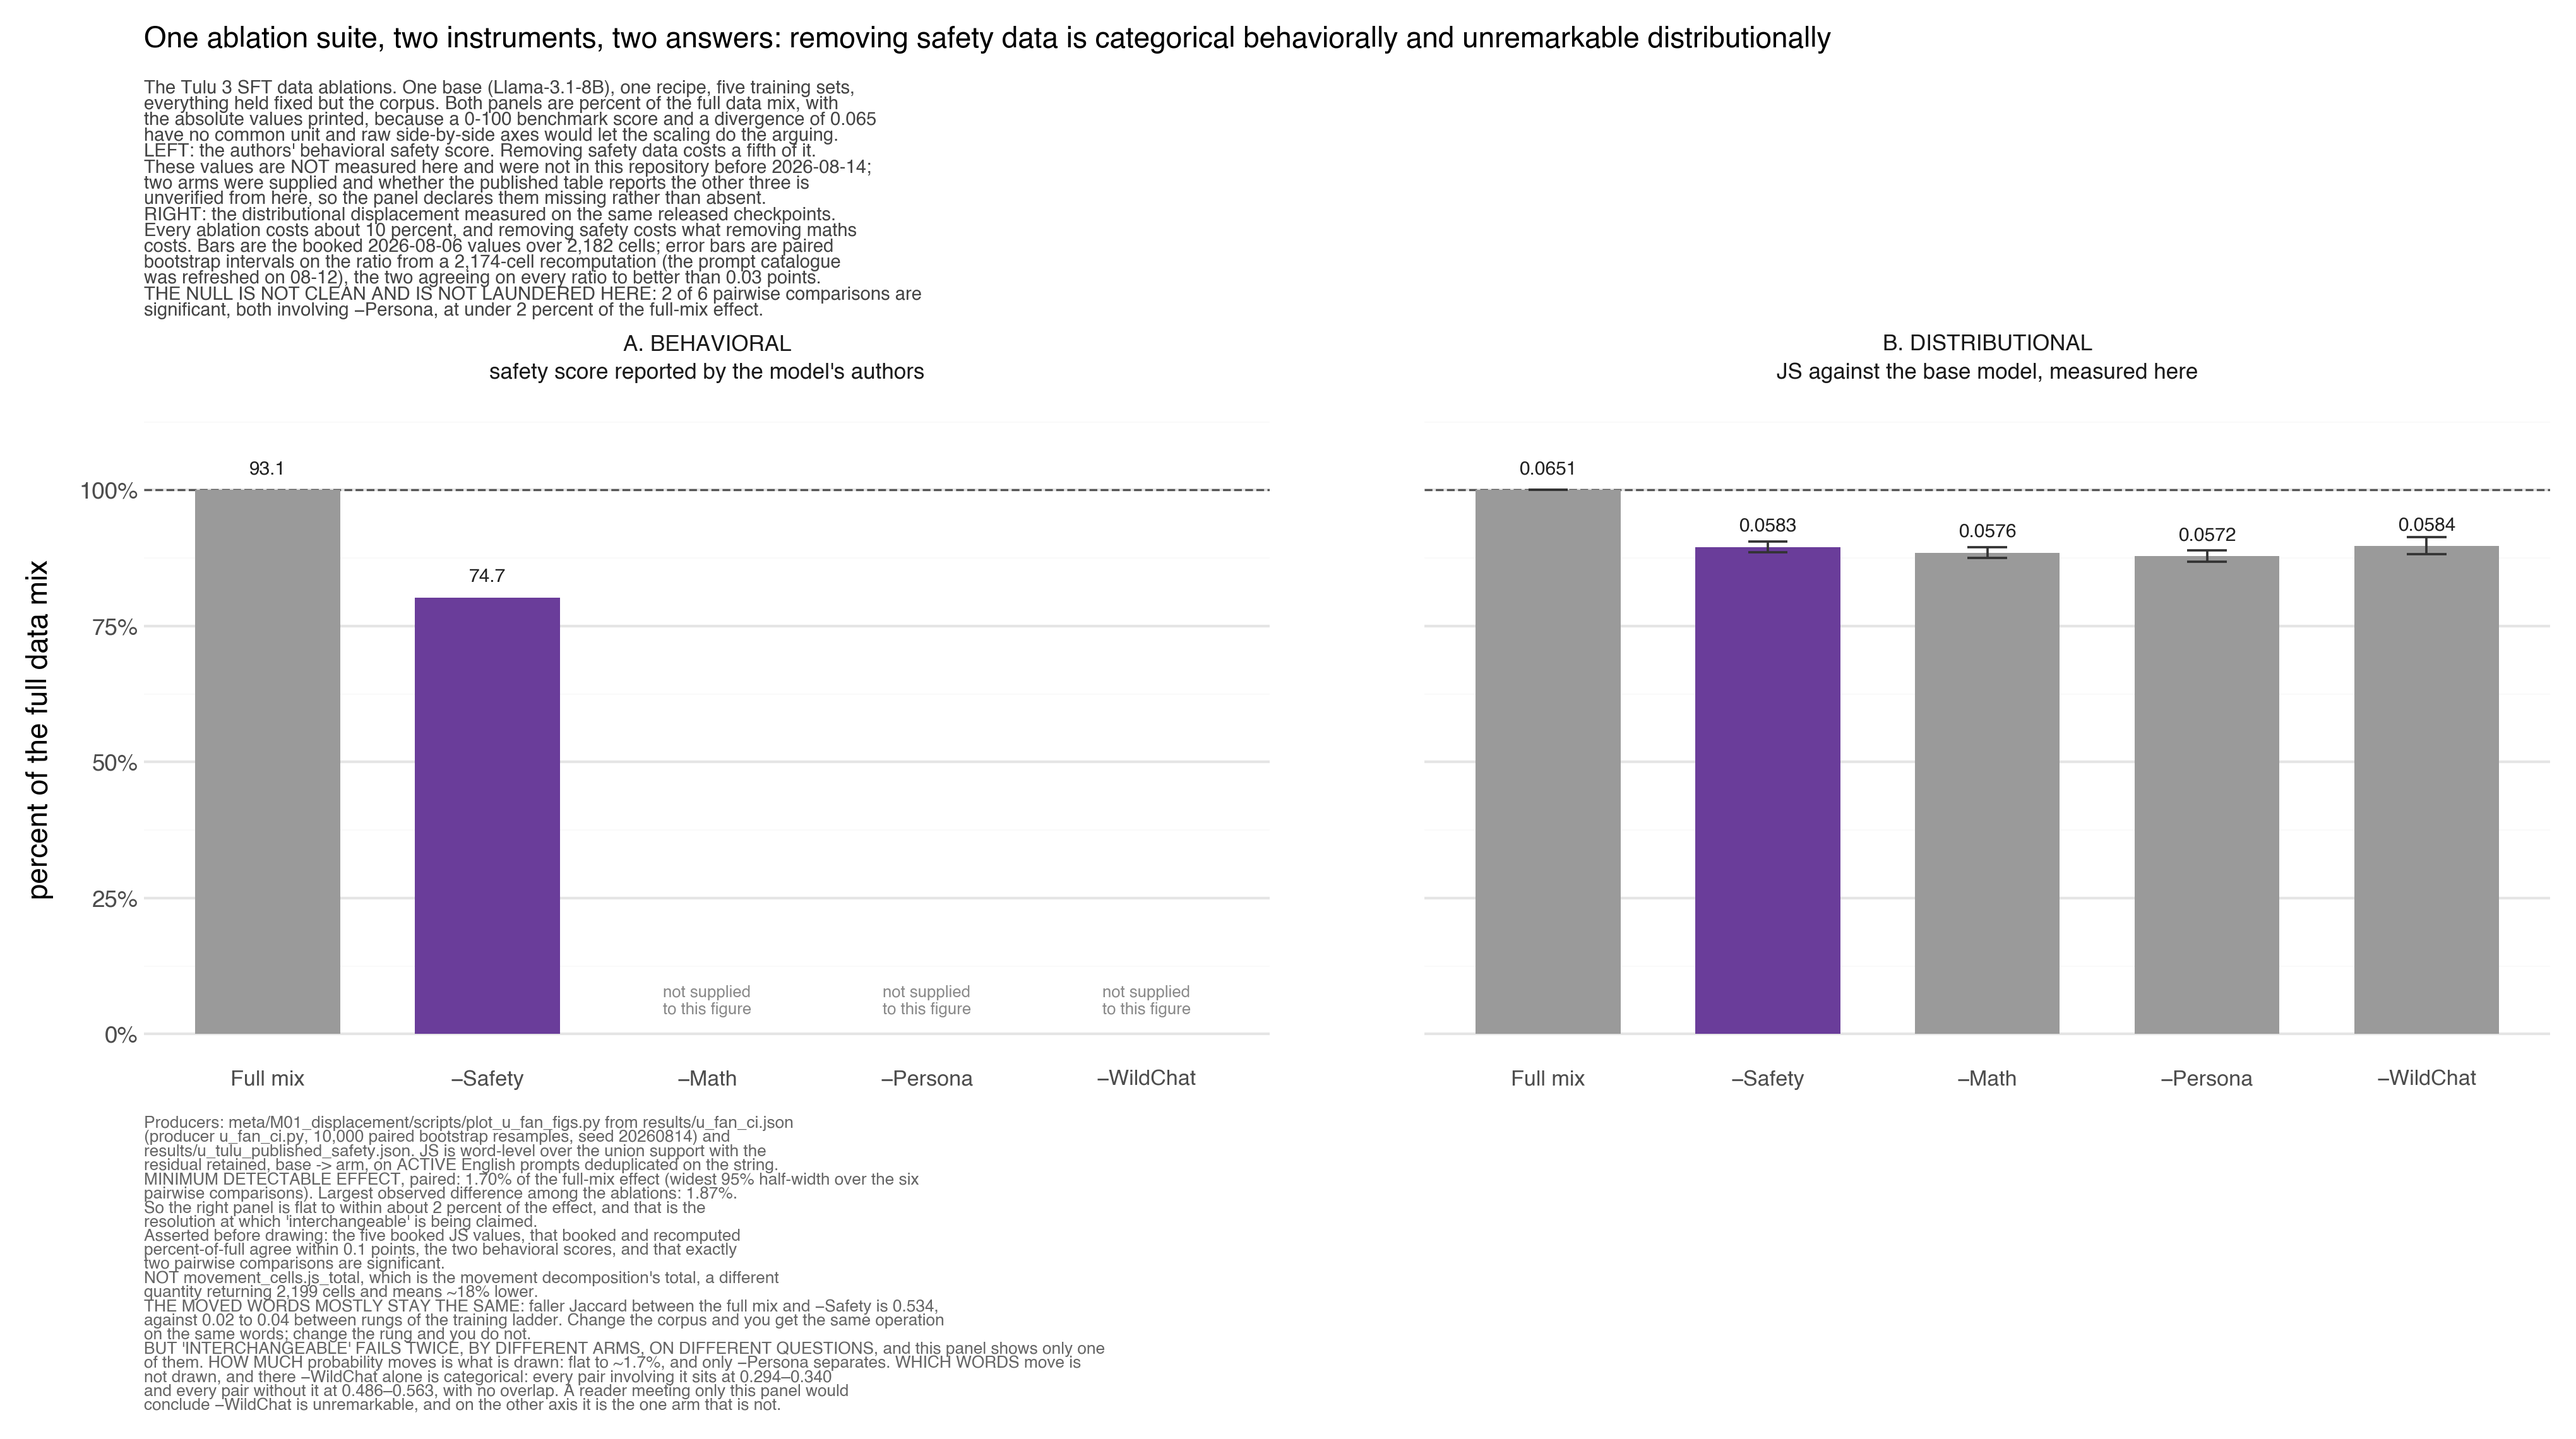
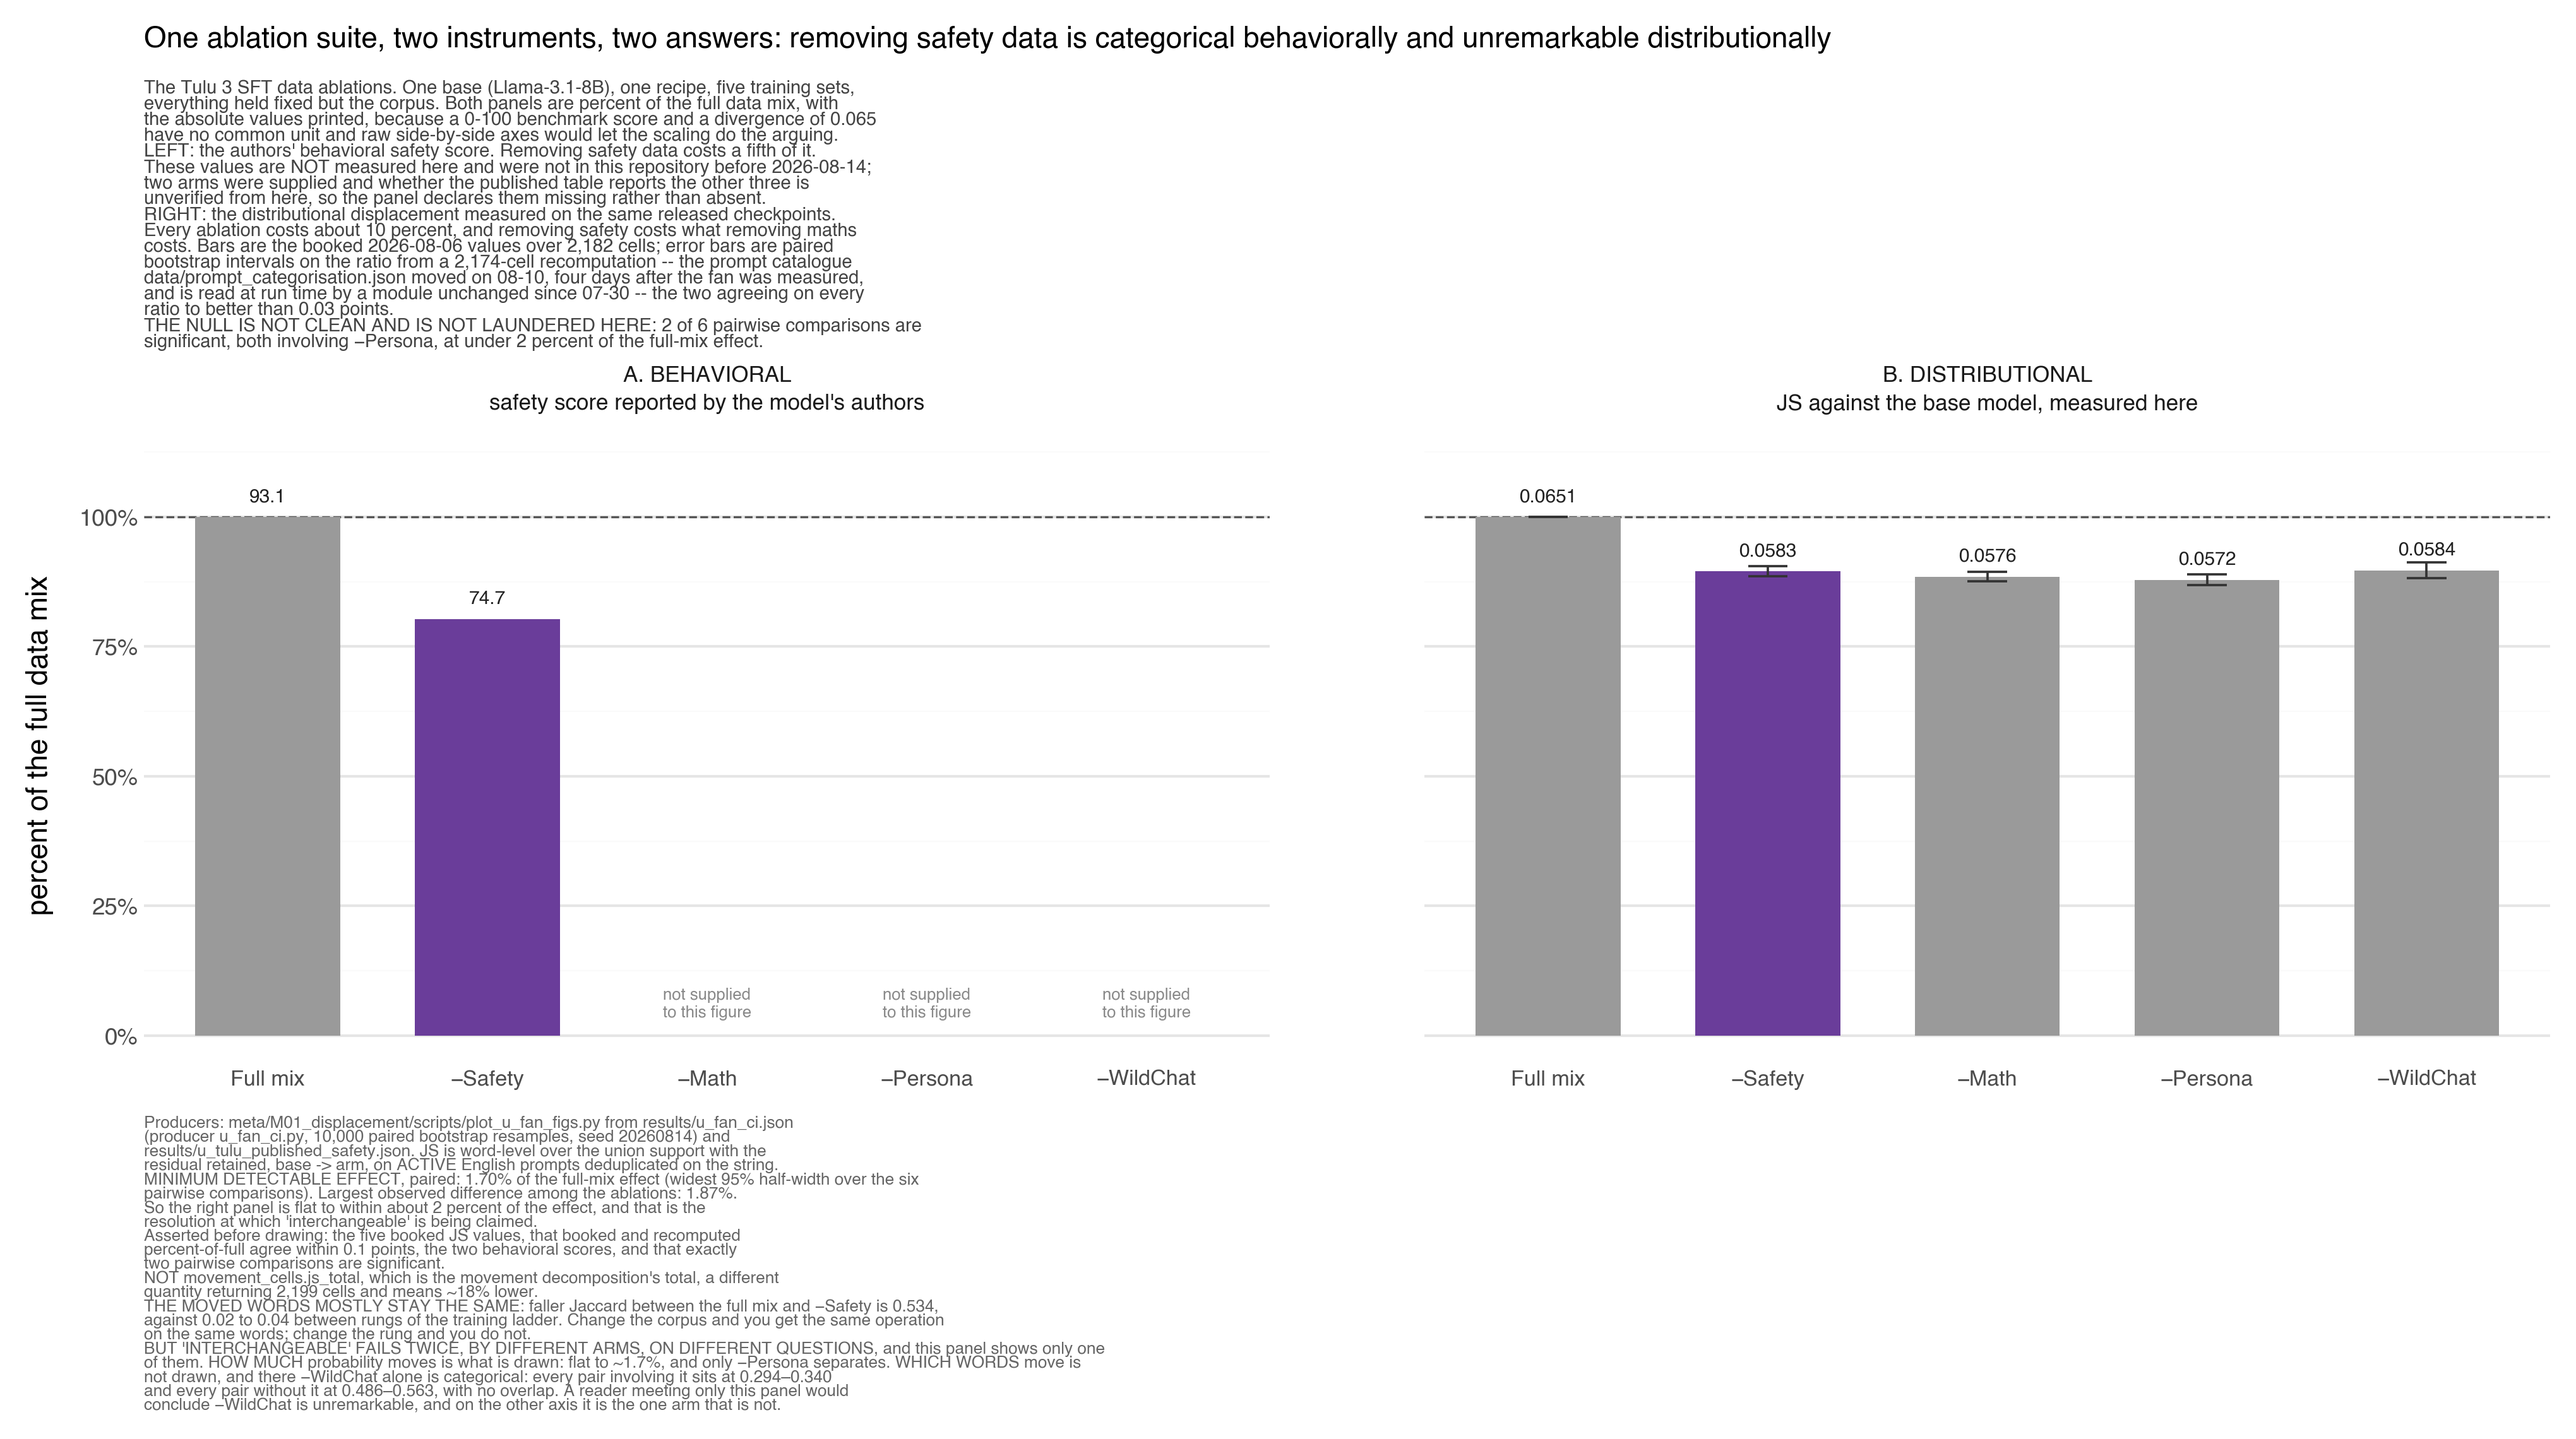
Fig 4: correct which catalogue moved under the fan, and when
I attributed the 2,182 -> 2,174 drift to the ClickHouse prompt_catalogue
refresh of 08-12. That is wrong: t_fans.py never touches ClickHouse.

The driver is data/prompt_categorisation.json, whose content moved
2026-08-10 23:56 (9b1d453c), four days after t_fans.csv was written on
08-06 17:14. t_fans.py reads malign_logits.prompts, which is UNCHANGED
since 07-30 (135b8cb5) and json.loads that file at run time
(prompts.py:62).

So the module in the import graph is clean and the data underneath it
moved. A library that reads a data file is a dependency no import-closure
check can see, and it is the mechanism under this drift -- lacan's sixth
exposure flavour, [6122], found by chasing this instance rather than by
any check.

Both the producer comment and the figure subtitle now name the right file
and the right date. Nothing about the measurement changes: the ratios were
and remain unaffected, and they are what the panel draws.

diff --git a/meta/M01_displacement/scripts/u_fan_ci.py b/meta/M01_displacement/scripts/u_fan_ci.py
@@ -92,10 +92,16 @@ def main():
     print(f"\ncells present in all five arms: {len(J)}")
 
     #: THE BOOKED ABSOLUTES NO LONGER REPRODUCE AND THAT IS RECORDED, NOT FIXED.
-    #: t_fans.csv was written 2026-08-06 on 2,182 cells. The prompt catalogue
-    #: was refreshed on 2026-08-12 (it had disagreed with its source on 118
-    #: statuses; see u_from_tables.py), and the fan now finds 2,174 cells
-    #: present in all five arms. The means move in the 4th decimal.
+    #: t_fans.csv was written 2026-08-06 17:14 on 2,182 cells, and the fan now
+    #: finds 2,174 present in all five arms, with the means moving in the 4th
+    #: decimal. THE DRIVER IS `data/prompt_categorisation.json`, whose content
+    #: moved 2026-08-10 23:56 (9b1d453c). Not the 08-12 ClickHouse catalogue
+    #: refresh, which an earlier version of this comment blamed: t_fans.py
+    #: never touches ClickHouse. It reads `malign_logits.prompts`, which is
+    #: unchanged since 07-30 and `json.load`s that file AT RUN TIME
+    #: (prompts.py:62). So the module in the import graph is clean and the
+    #: data underneath it moved -- a library that reads a data file, which no
+    #: import-closure check can see (lacan, [6122]).
     #:
     #: What the finding CLAIMS is a set of ratios -- "removing any slice costs
     #: 10 to 12 percent", "the four span 1.8 percent of the effect" -- and the

diff --git a/meta/M01_displacement/scripts/plot_u_fan_figs.py b/meta/M01_displacement/scripts/plot_u_fan_figs.py
@@ -187,8 +187,10 @@ def two_instruments():
                 "RIGHT: the distributional displacement measured on the same released checkpoints.\n"
                 "Every ablation costs about 10 percent, and removing safety costs what removing maths\n"
                 "costs. Bars are the booked 2026-08-06 values over 2,182 cells; error bars are paired\n"
-                "bootstrap intervals on the ratio from a 2,174-cell recomputation (the prompt catalogue\n"
-                "was refreshed on 08-12), the two agreeing on every ratio to better than 0.03 points.\n"
+                "bootstrap intervals on the ratio from a 2,174-cell recomputation -- the prompt catalogue\n"
+                "data/prompt_categorisation.json moved on 08-10, four days after the fan was measured,\n"
+                "and is read at run time by a module unchanged since 07-30 -- the two agreeing on every\n"
+                "ratio to better than 0.03 points.\n"
                 "THE NULL IS NOT CLEAN AND IS NOT LAUNDERED HERE: 2 of 6 pairwise comparisons are\n"
                 "significant, both involving −Persona, at under 2 percent of the full-mix effect."),
             x="", y="percent of the full data mix",
